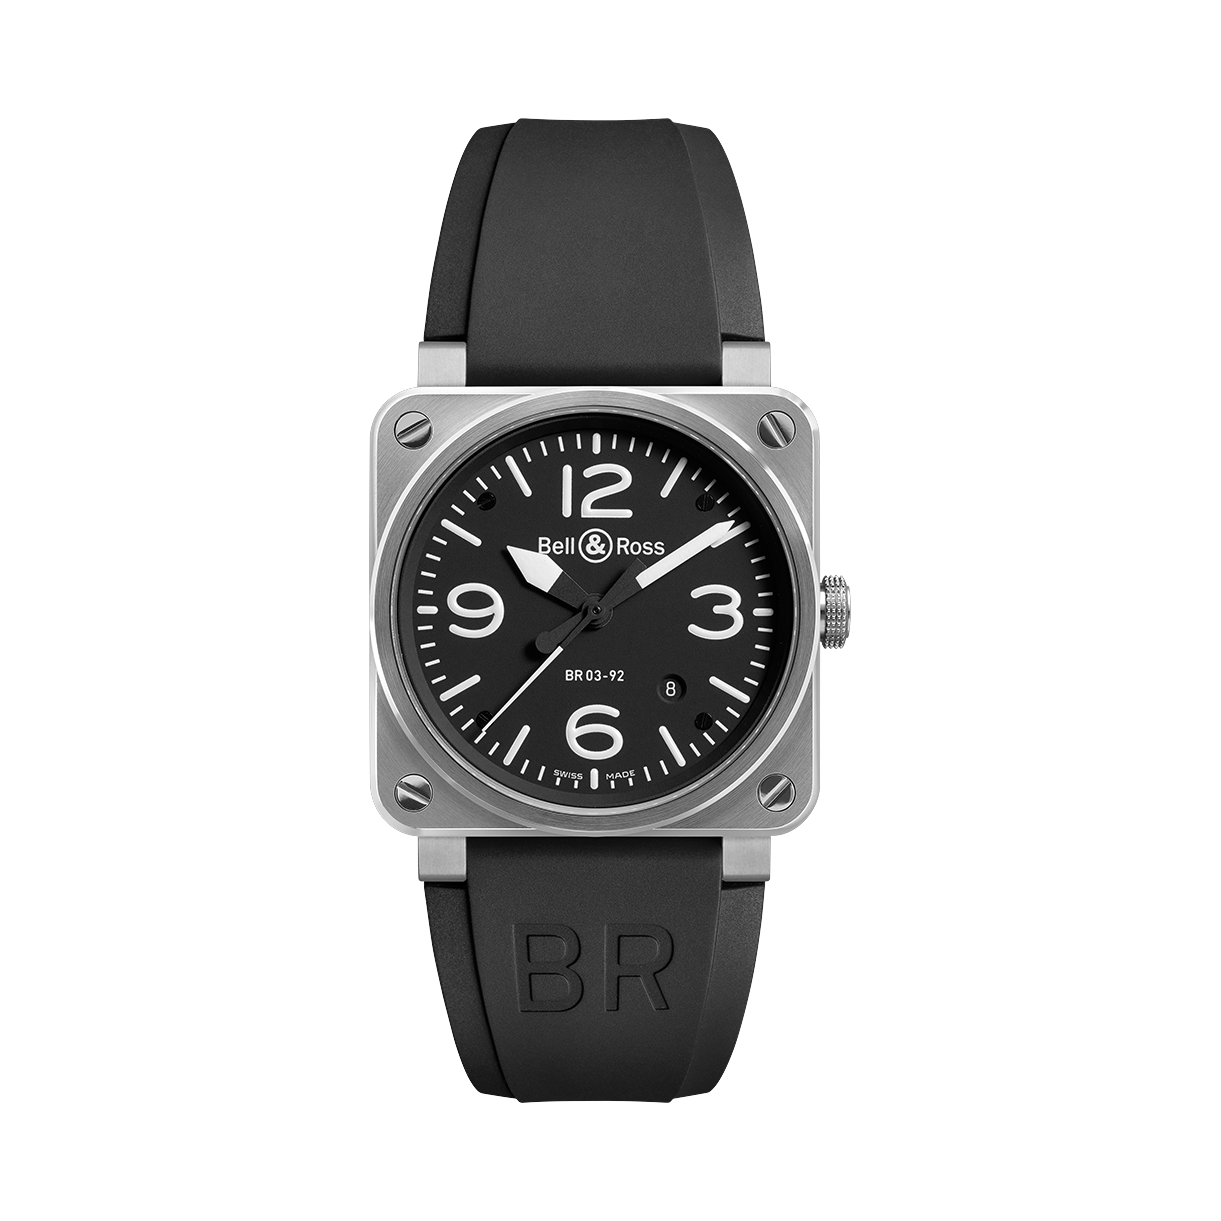
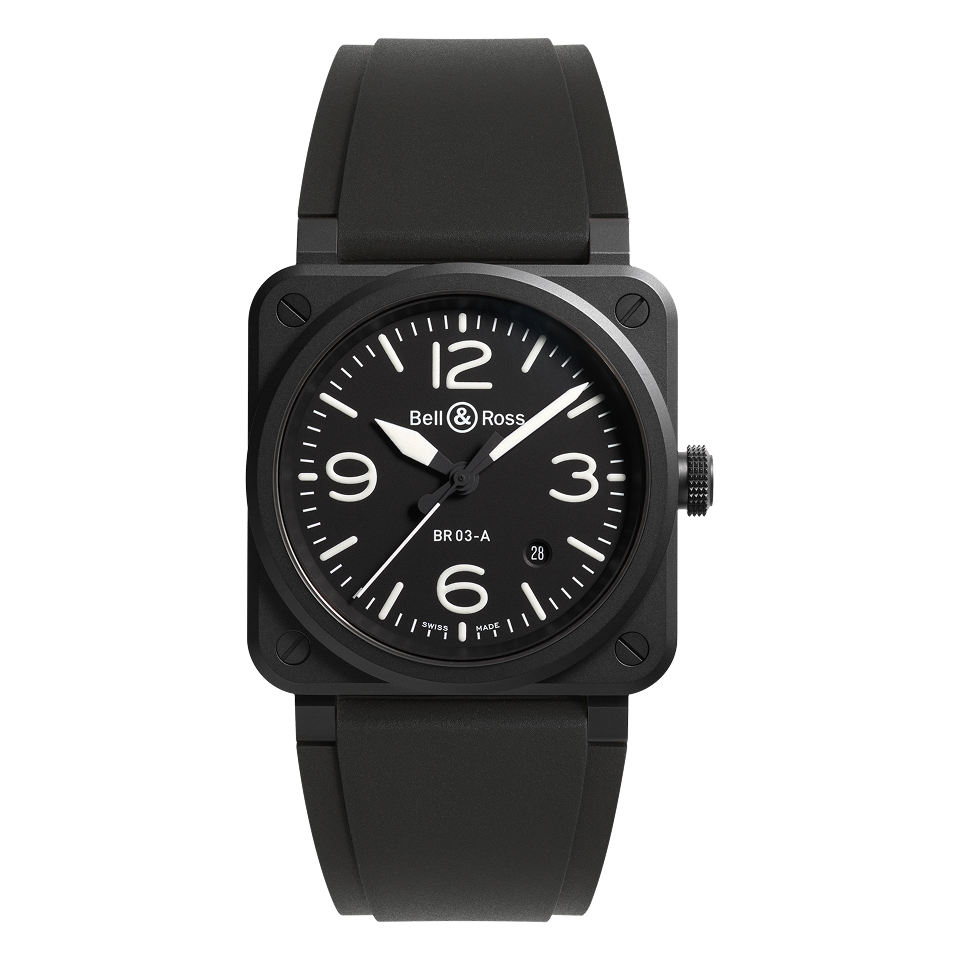
Fix Bell & Ross BR 03 photo to the actual reference owned/wanted
The previous image was the steel-bracelet BR 03-92; swapped in the
official Bell & Ross studio asset for the specific BR-03 Black Matte
(BR03A-BL-CE/SRB) — 41mm microblasted black ceramic case on a black
rubber strap — and corrected the case material, price, and link to
match that exact listing.

Claude-Session: https://claude.ai/code/session_013iGgRthztVeMk1rbtNRbu4

Changed region(s): [[0.2419, 0.0302, 0.756, 0.9677]]

diff --git a/johnnie/content/stuff/24-bell-ross-br03.md b/johnnie/content/stuff/24-bell-ross-br03.md
@@ -1,16 +1,16 @@
 ---
 order: 24
-name: "Bell & Ross BR 03-92"
+name: "Bell & Ross BR-03 Black Matte"
 category: "Watch"
 owned: false
 brand: "Bell & Ross"
-price: "$3,900"
-description: "The square aviation case, straight off an instrument panel — 42mm of steel with a black dial built for at-a-glance legibility. Still on the list."
+price: "$4,300"
+description: "The square aviation case, straight off an instrument panel — 41mm of microblasted black ceramic on a black rubber strap, built for at-a-glance legibility. Still on the list."
 specs:
-  - { label: "Case", value: "42 mm steel, square" }
-  - { label: "Movement", value: "Automatic" }
+  - { label: "Case", value: "41 mm black ceramic, square" }
+  - { label: "Movement", value: "Automatic, 54h reserve" }
   - { label: "Water resistance", value: "100 m" }
 image: "/images/stuff/24-bell-ross-br03.png"
-link: "https://www.bellross.com"
+link: "https://bellross.com/en-us/collections/br-03/products/br-03-black-matte-rubber-strap"
 cta: "Buy it"
 ---
